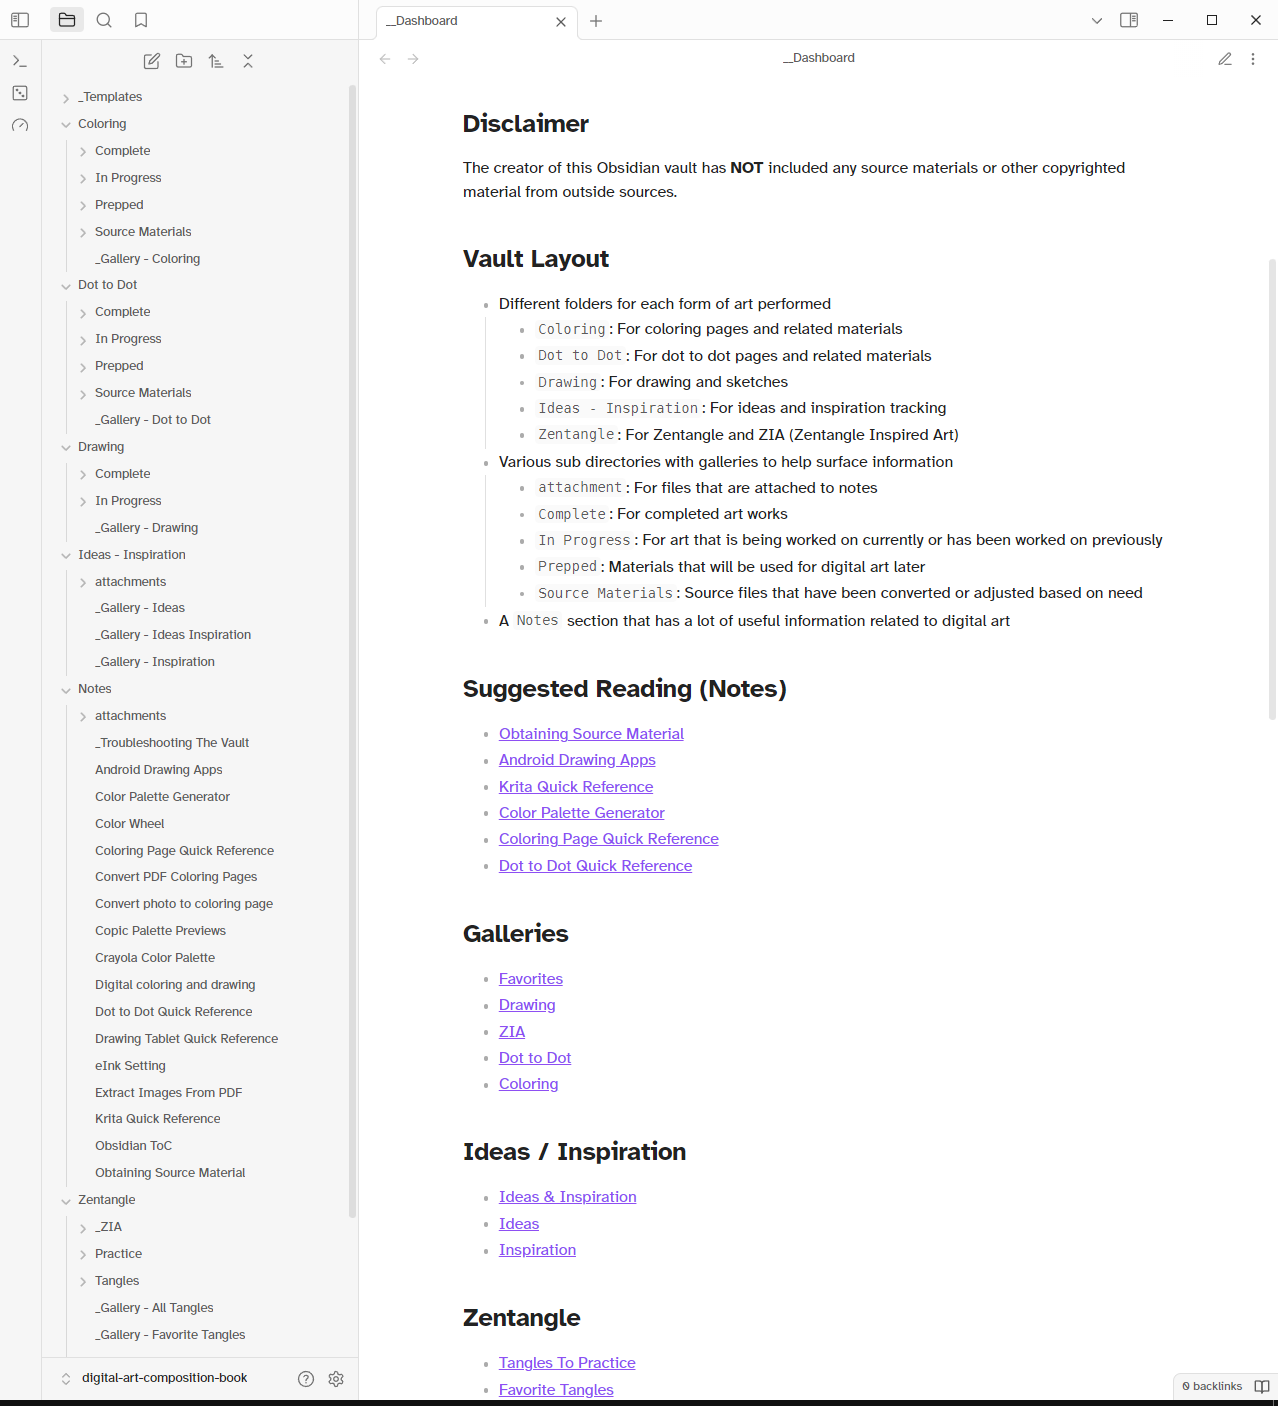
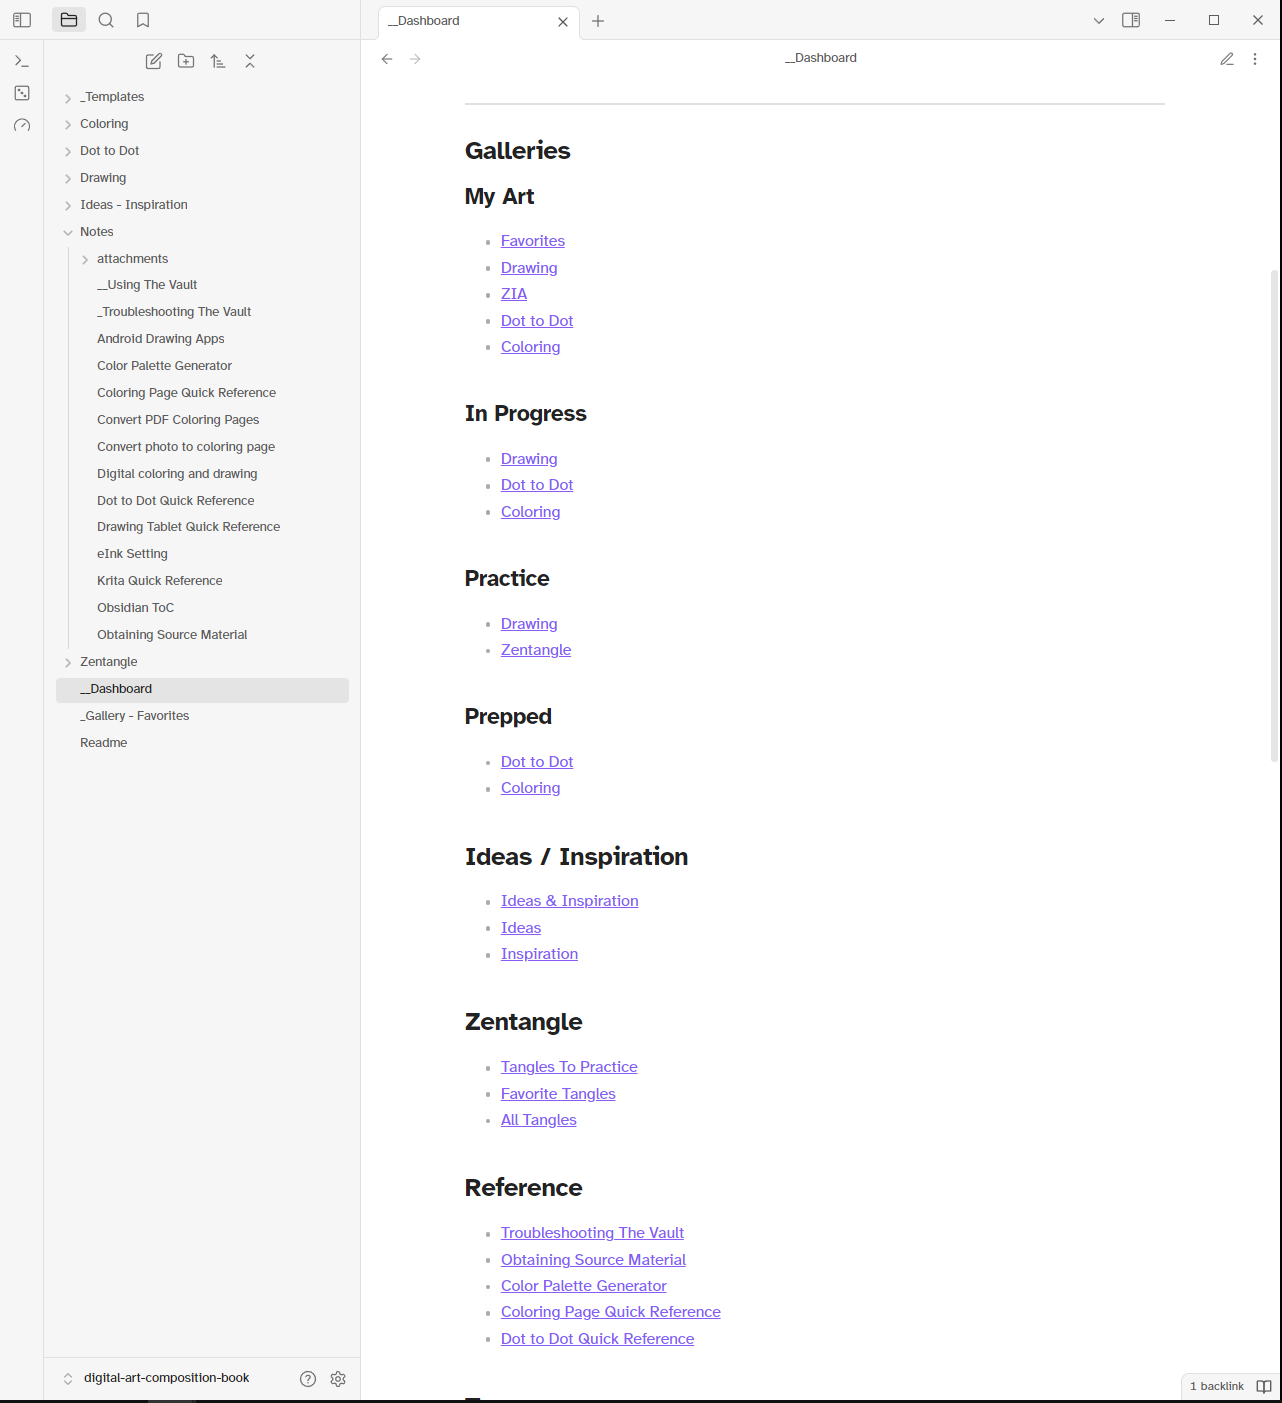
update readme and documentation to be more detailed, better organized and more

diff --git a/Notes/Krita Quick Reference.md b/Notes/Krita Quick Reference.md
@@ -6,22 +6,21 @@ source: "N/A"
 created_at: 2024-09-13
 ---
 
-## A quick note
+```table-of-contents
+title: **Table of Contents**
+```
 
-Also see [Digital coloring and drawing](Notes/Digital%20coloring%20and%20drawing.md) for a full Krita config. The Krita specific information is at the *bottom* of the linked page.
+---
 
-## General workflow
+## Brushes, Palettes & More
 
-- Prep downloaded files
-	- Extract `png`/`jpg`/`tiff` pages from `pdf` if needed
-	- Convert image to `kra` format
-	- Setup any necessary layers
-		- See [Coloring Page Quick Reference](Notes/Coloring%20Page%20Quick%20Reference.md) for coloring pages
-		- See [Dot to Dot Quick Reference](Notes/Dot%20to%20Dot%20Quick%20Reference.md) for dot to dot pages
-- Create page in vault with link to `kra` file
-- Sync vault to tablet as appropriate
-- Open file in Krita
-- Make art
+- [brush] Bic ballpoint: [https://krita-artists.org/t/cheap-ballpoint-pen-brush/17170](https://krita-artists.org/t/cheap-ballpoint-pen-brush/17170)
+- [brush] Copic Markers: [https://krita-artists.org/t/realistic-copic-marker-like-brushes/41203](https://krita-artists.org/t/realistic-copic-marker-like-brushes/41203)
+- [brush] Graphite: [https://krita-artists.org/t/graphite-brushes-for-the-new-pattern-blend-modes/28036](https://krita-artists.org/t/graphite-brushes-for-the-new-pattern-blend-modes/28036)
+- [brush] Sketch Pencils: `RM_Sketch_V1.bundle` from [https://files.kde.org/krita/extras/](https://files.kde.org/krita/extras/)
+- [brush] Charcoal: `Charcoal_KA.bundle` from [https://files.kde.org/krita/extras/charcoal/](https://files.kde.org/krita/extras/charcoal/)
+- [palate] copic marker colors: [https://raw.githubusercontent.com/maborotopia/Krita_resources/master/copic322_color.gpl](https://raw.githubusercontent.com/maborotopia/Krita_resources/master/copic322_color.gpl)
+- [palate] copic colors (more robust): [https://www.deviantart.com/d-signer/art/All-358-COPIC-Digital-Marker-Colours-ASE-ACO-GPL-765188823](https://www.deviantart.com/d-signer/art/All-358-COPIC-Digital-Marker-Colours-ASE-ACO-GPL-765188823)
 
 ## Logitech T650 Tips / Tricks
 
@@ -50,23 +49,79 @@ An important note: the settings dialog may be too big horizontally for a small a
 
 On a small tablet it can be wise to use the full screen canvas view and pop-up palette. This allows you to use the whole screen with your stylus and easily access different brushes and recently used colors. Note: the pop-up palette will show your favorite brushes by default and which brushes it shows, as well as how many to show, can be configured within the main Krita settings.
 
-Another helpful thing on tablets is tuning the mutli-touch gestures. The following work very well in practice:
+### Multi-touch / Gestures
 
 - Two finger tap: activate pop-up palette
 - Three finger tap: toggle canvas only mode
 - Four finger drag: Undo
 - Four finger tap: redo
 
-### Screenshots
+### General Settings
 
-#### Main Krita View With File Open
+- general
+    - window
+        - disable HiDPI support
+    - tools
+        - tool options location: in toolbar
+        - disable 'enable touch painting
+    - misc (when krita starts)
+        - show session manager
+        - save session on exit
+- canvas input settings (use a non default profile / see above for saving fix)
+    - look for any gestures/touch/pen stuff that needs removing
+    - show pop up widget
+        - set to 'two finger tap'
+    - zoom canvas
+        - set gesture to five finger tap
+    - touch gestures
+        - set undo to four finger drag
+        - set redo to four finger tap
+        - set toggle canvas mode to three finger tap
+- tablet settings
+    - adjust pressure curve
+- pop-up palatte
+    - disable show rotation ring
+- s pen actions
+    - click: toggle pop up palette with s-pen
+    - double click: show canvas only
+    - gestures: set all to do nothing
+
+### Things to consider
+
+- bug fix input profile settings: [https://krita-artists.org/t/cannot-save-input-profile-does-not-persist-on-startup-on-android/55693/4](https://krita-artists.org/t/cannot-save-input-profile-does-not-persist-on-startup-on-android/55693/4)
+- s pen click button is mouse middle click on galaxy fold devices
+- pop up palatte _is_ quick settings (like sketchbook puck)
+- gestures in the config can likely do brush size up/dn and undo/redo
+- can tune brush settings shown via the pop up palatte ui
+- go through favorite brushes and set up to 10 ; these will show on the popup palatte
+- use portrait mode when editing brushes ; you need the height to see everything and you can use the top of the pop-up window to move it left/right for full access
+
+### External storage resources folder on Android
+
+- export/prep everything you want to keep (reuse desktop default resources dir if desired)
+- settings -> resources
+- use the ICON that pops the android folder selector
+- select the folder you want to use and grant storage permissions to it
+- save settings & quit krita
+- force stop krita in app settings
+- (ONLY IF REIMPORTING EXPORTS) - relaunch krita and import data
+- copy the resources dir you want to use to the selected folder
+- launch krita. this _will_ take awhile and may look like its frozen
+- clear any warnings/errors
+- quit krita
+- force stop krita
+- relaunch and enjoy
+
+## Screenshots
+
+### Main Krita View With File Open
 
 ![](Notes/attachments/Imagepipe_359.jpg)
 
-#### Canvas View
+### Canvas View
 
 ![](Notes/attachments/Imagepipe_360.jpg)
 
-#### Pop-up Palette
+### Pop-up Palette
 
 ![](Notes/attachments/Imagepipe_361.jpg)

diff --git a/Notes/__Using The Vault.md b/Notes/__Using The Vault.md
@@ -1,0 +1,77 @@
+```table-of-contents
+title: **Table of Contents**
+```
+
+---
+
+## Disclaimer
+
+The creator of this Obsidian vault has **NOT** included any source materials or other copyrighted material from outside sources.
+
+## Comp Book (Vault) Layout
+
+- Different folders for each form of art performed
+	- `Coloring`: For coloring pages and related materials
+	- `Dot to Dot`: For dot to dot pages and related materials
+	- `Drawing`: For drawing and sketches
+	- `Ideas - Inspiration`: For ideas and inspiration tracking
+	- `Zentangle`: For Zentangle and ZIA (Zentangle Inspired Art)
+- Various sub folders to help with organization of files
+	- `attachments`: For files that are attached to notes
+	- `Complete`: For completed art works
+	- `In Progress`: For art that is being worked on currently or has been worked on previously
+	- `Prepped`: Materials that will be used for digital art later
+	- `Source Materials`: Source files that have been converted or adjusted based on need
+- Various gallery notes to help with surfacing information and art stored within
+	- Look for files with `_Gallery -` as the start of the file name
+- A `Notes` section that has a lot of useful information related to digital art
+- A `__Dashboard` note that is meant to be the 'starting point' for the vault.
+
+## Using The Comp Book (Vault)
+
+- Each piece of artwork gets 3 files:
+	- The source file for use with a drawing app such as Krita
+	- A PNG or JPG export of the file to ensure notes have a good thumbnail preview of the artwork
+	- A standard Obsidian note to encapsulate any metadata and notes related to the artwork
+- There are a number of templates that can be used to create notes to represent artworks
+	- See the `Command Palette` and `From Template` items as well as the `_Templates` folder
+	- Each template will place a new note in the main type of art folder
+	- Each template will prompt for a number of common metadata items on creation to help auto-fill metadata and other details
+	- Each template will have a `To Do` section at the top with prompts for additional steps you may want to take
+	- The newly created notes should have the source file and any png/jpg files attached to help with thumbnails and to help keep files organized
+- Once a new note is setup with the desired information it should be moved to an appropriate sub-folder to ensure it's auto-added to an appropriate gallery
+	- Each gallery uses queries to find the notes shown based on folders
+	- You do *not* need to manage the galleries directly
+- Art works should flow between sub folders as progress is made. For example: `Prepped` -> `In Progress` -> `Complete` for order
+- The files in the `Notes` section are non-indexed and exist as a generalized list of topics in the file browser. This can be changed to match your preferences.
+- The `Ideas - Inspiration` folder does *not* have sub-folders and assumes you'll just keep a list of notes similar to the `Notes` section or adjust this area to match your preferences.
+- The [__Dashboard](__Dashboard.md) is meant to be 'the starting point' and 'overview' for the whole vault
+
+## New Artwork General Workflow
+
+- Prep downloaded files
+	- Convert source material to art app native format
+	- Setup any necessary layers
+		- See [Coloring Page Quick Reference](Notes/Coloring%20Page%20Quick%20Reference.md) for coloring pages
+		- See [Dot to Dot Quick Reference](Notes/Dot%20to%20Dot%20Quick%20Reference.md) for dot to dot pages
+- Create page for artwork using the appropriate template
+- Link files to new artwork page as appropriate
+- Move artwork page to appropriate sub folder
+- Sync vault to other devices if needed
+- Open file in art app
+- Make art
+
+## Suggested Reading (Notes)
+
+- [Obtaining Source Material](Notes/Obtaining%20Source%20Material.md)
+- [Android Drawing Apps](Notes/Android%20Drawing%20Apps.md)
+- [Krita Quick Reference](Notes/Krita%20Quick%20Reference.md)
+- [Color Palette Generator](Notes/Color%20Palette%20Generator.md)
+- [Coloring Page Quick Reference](Notes/Coloring%20Page%20Quick%20Reference.md)
+- [Dot to Dot Quick Reference](Notes/Dot%20to%20Dot%20Quick%20Reference.md)
+
+## Enjoy
+
+There isn't much more to this vault than stated above. Feel free to explore and adjust this vault as you see fit. This is meant as a rough guide, inspiration and/or starting point.
+
+I use this vault for all my digital art and it's been a huge help for me. I hope it, or a variation of it, can do the same for you.

diff --git a/__Dashboard.md b/__Dashboard.md
@@ -4,64 +4,6 @@ title: **Table of Contents**
 
 ---
 
-## Disclaimer
-
-The creator of this Obsidian vault has **NOT** included any source materials or other copyrighted material from outside sources.
-
-## Comp Book (Vault) Layout
-
-- Different folders for each form of art performed
-	- `Coloring`: For coloring pages and related materials
-	- `Dot to Dot`: For dot to dot pages and related materials
-	- `Drawing`: For drawing and sketches
-	- `Ideas - Inspiration`: For ideas and inspiration tracking
-	- `Zentangle`: For Zentangle and ZIA (Zentangle Inspired Art)
-- Various sub folders to help with organization of files
-	- `attachments`: For files that are attached to notes
-	- `Complete`: For completed art works
-	- `In Progress`: For art that is being worked on currently or has been worked on previously
-	- `Prepped`: Materials that will be used for digital art later
-	- `Source Materials`: Source files that have been converted or adjusted based on need
-- Various gallery notes to help with surfacing information and art stored within
-	- Look for files with `_Gallery -` as the start of the file name
-- A `Notes` section that has a lot of useful information related to digital art
-- A `__Dashboard` note that is meant to be the 'starting point' for the vault.
-
-## Using The Comp Book (Vault)
-
-- Each piece of artwork gets 3 files:
-	- The source file for use with a drawing app such as Krita
-	- A PNG or JPG export of the file to ensure notes have a good thumbnail preview of the artwork
-	- A standard Obsidian note to encapsulate any metadata and notes related to the artwork
-- There are a number of templates that can be used to create notes to represent artworks
-	- See the `Command Palette` and `From Template` items as well as the `_Templates` folder
-	- Each template will place a new note in the main type of art folder
-	- Each template will prompt for a number of common metadata items on creation to help auto-fill metadata and other details
-	- Each template will have a `To Do` section at the top with prompts for additional steps you may want to take
-	- The newly created notes should have the source file and any png/jpg files attached to help with thumbnails and to help keep files organized
-- Once a new note is setup with the desired information it should be moved to an appropriate sub-folder to ensure it's auto-added to an appropriate gallery
-	- Each gallery uses queries to find the notes shown based on folders
-	- You do *not* need to manage the galleries directly
-- Art works should flow between sub folders as progress is made. For example `Prepped` -> `In Progress` -> `Complete` for order
-- The files in the `Notes` section are non-indexed and exist as a generalized list of topics in the file browser. This can be changed to match your preferences.
-- The `Ideas - Inspiration` folder does *not* have sub-folders and assumes you'll just keep a list of notes similar to the `Notes` section or adjust this area to match your preferences.
-- This file is mean to be a general dashboard and home page for users. The content within should be adjusted, adapted and changed to meet your needs as appropriate and/or desired.
-
-## Suggested Reading (Notes)
-
-- [Obtaining Source Material](Notes/Obtaining%20Source%20Material.md)
-- [Android Drawing Apps](Notes/Android%20Drawing%20Apps.md)
-- [Krita Quick Reference](Notes/Krita%20Quick%20Reference.md)
-- [Color Palette Generator](Notes/Color%20Palette%20Generator.md)
-- [Coloring Page Quick Reference](Notes/Coloring%20Page%20Quick%20Reference.md)
-- [Dot to Dot Quick Reference](Notes/Dot%20to%20Dot%20Quick%20Reference.md)
-
-## Enjoy
-
-There isn't much more to this vault than stated above. Feel free to explore and adjust this vault as you see fit. This is meant as a rough guide, inspiration and/or starting point.
-
-I use this vault for all my digital art and it's been a huge help for me. I hope it, or a variation of it, can do the same for you.
-
 ## Galleries
 
 ### My Art

diff --git a/Readme.md b/Readme.md
@@ -4,9 +4,22 @@ This is a template Obsidian vault that is setup to act as a 'Digital Art Composi
 
 Digital art may be 'rigid' and 'not notebook friendly' but this Obsidian vault can wrangle things into a digital notebook that's similar in feel to a paper composition book / journal. It's not perfect but it works well with the constraints 'digital' imposes.
 
-Please see the [__Dashboard](__Dashboard.md) file for additional detail.
+## Additional Details
 
-## How To Download The Files As A ZIP
+Please see the [__Using The Vault](Notes/__Using%20The%20Vault.md) file for additional detail how this vault can be used as a digital art composition book.
+
+There are also screenshots below showing the vault in use.
+
+## To use the vault template
+
+- Download the files as a zip file (see below screenshot for detail)
+- Extract the zip file
+- Rename the folder contained within the zip file if desired
+- Open the folder that was extracted in Obsidian as a vault
+- Import any existing art as appropriate
+- Enjoy
+
+## Downloading the vault as a zip file
 
 ![How to download](Notes/attachments/downloading.png)
 

diff --git a/Notes/Convert PDF Coloring Pages.md b/Notes/Convert PDF Coloring Pages.md
@@ -5,6 +5,8 @@ created_at: "2023-02-17"
 source: "KemoNine Blog"
 ---
 
+---
+
 ## Important Note
 
 Krita can natively import PDFs with each page as a layer. You can simply open the PDF within Krita and then cut/copy/paste each later into a new image as appropriate or work with them as a single image.
@@ -13,8 +15,9 @@ The above approch with Krita can be significantly easier and less fiddly than th
 
 ## The original blog post...
 
-If you have access to `imagemagick` you can quickly convert a PDF coloring page(s) to grayscale PNG using the below procedure and notes.
+---
 
+If you have access to `imagemagick` you can quickly convert a PDF coloring page(s) to grayscale PNG using the below procedure and notes.
 
 ## Notes {#notes}
 

diff --git a/Notes/Obtaining Source Material.md b/Notes/Obtaining Source Material.md
@@ -5,8 +5,9 @@ source: "N/A"
 created_at: 2024-09-13
 ---
 
+The below links can be good sources of coloring pages, dot to dot pages and more.
+
 - https://ko-fi.com/welshpixie
-- https://rheall.gumroad.com/l/hTdbD
 - https://www.etsy.com/shop/TimsPrintables
 - https://www.etsy.com/shop/Woodseestees
 - https://www.etsy.com/shop/TheColoringBookshelf

diff --git a/Notes/Dot to Dot Quick Reference.md b/Notes/Dot to Dot Quick Reference.md
@@ -7,6 +7,8 @@ source: N/A
 
 ---
 
+## Create Digital Document
+
 - Import image as a layer
 - Rename layer `Dot to Dot`
 - Set `Blending mode` to `Darken`
